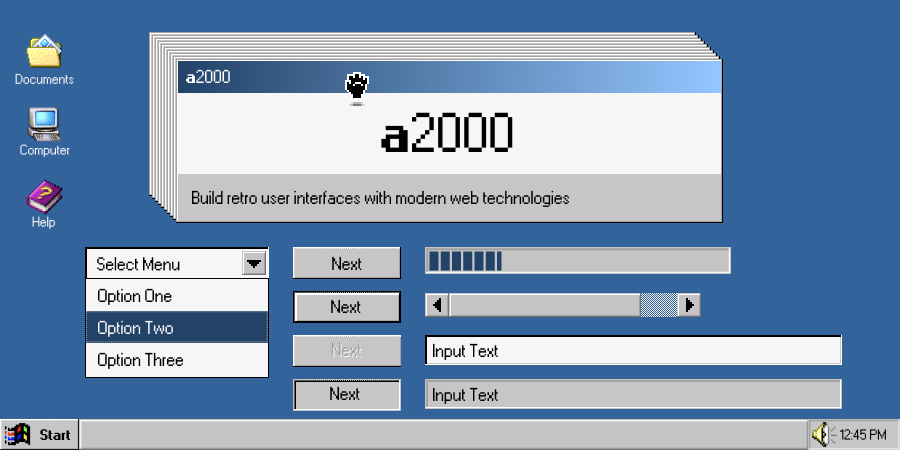
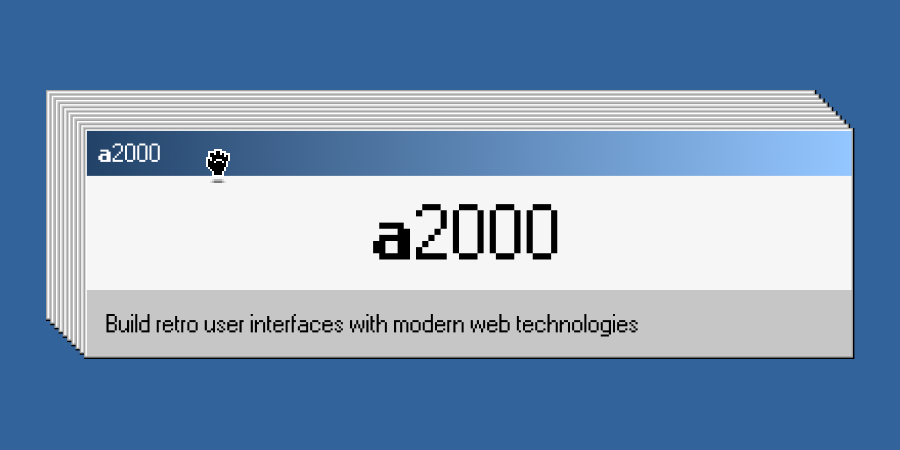
docs(docs): finish general styles for doc site

diff --git a/docs/index.html b/docs/index.html
@@ -51,18 +51,18 @@
         </nav>
       </a2k-panel>
 
-      <main>
+      <main class="stack stack-spacing-300">
+        <img
+          class="cover-image"
+          src="/images/cover.png"
+          srcset="/images/cover.png 1x, /images/cover@2x.png 2x"
+        />
         <a2k-panel>
           <a2k-window-topbar>a2000</a2k-window-topbar>
           <div class="content stack stack-spacing-300">
             <section>
               <h1 id="title">a2000 (or a2k)</h1>
               <div class="stack stack-spacing-200">
-                <img
-                  class="cover-image"
-                  src="/images/cover.png"
-                  srcset="/images/cover.png 1x, /images/cover@2x.png 2x"
-                />
                 <p>Welcome to a2000 (or a2k for short).</p>
                 <p>
                   a2000 is a UI library design to capture the feel of the early
@@ -130,8 +130,9 @@
                   <h3 id="icons">Icons</h3>
                   <div class="stack stack-spacing-200">
                     <p>
-                      Icons can help a user recognise the meaning quickly. They
-                      can also help improve the visual design of a website.
+                      Icons can help a user recognise the meaning of an
+                      action/feature quickly. They can also help improve the
+                      visual design of a website.
                     </p>
 
                     <div class="icons">
@@ -142,10 +143,24 @@
                       <a2k-icon icon="info-icon"></a2k-icon>
                     </div>
 
+                    <p>
+                      You can combine icons with buttons and text to improve the
+                      visual association with an action. This also increases the
+                      click area, which is great people using touch devices.
+                    </p>
+
                     <div class="desktop-icons">
                       <a2k-desktop-icon
-                        icon="network-icon"
-                        text="network"
+                        icon="help-icon"
+                        text="help"
+                      ></a2k-desktop-icon>
+                      <a2k-desktop-icon
+                        icon="internet-icon"
+                        text="internet"
+                      ></a2k-desktop-icon>
+                      <a2k-desktop-icon
+                        icon="info-icon"
+                        text="info"
                       ></a2k-desktop-icon>
                     </div>
 
@@ -167,7 +182,8 @@
                       page. They are also used to increase the retro feel of
                       your site by 1000%.
                     </p>
-                    <a2k-marquee
+
+                    <a2k-marquee class="input-wrapper"
                       ><p slot="text">This is a marquee</p></a2k-marquee
                     >
                     <div>
@@ -189,7 +205,7 @@
                       Window both build from the Panel.
                     </p>
 
-                    <a2k-panel>
+                    <a2k-panel class="input-wrapper">
                       <p style="padding-left: 8px">
                         Use me to give things that Windows 2000 vibe
                       </p>
@@ -208,7 +224,10 @@
                       for a given task.
                     </p>
 
-                    <a2k-progress progress="69"></a2k-progress>
+                    <a2k-progress
+                      class="input-wrapper"
+                      progress="69"
+                    ></a2k-progress>
                     <div>
                       <a
                         href="https://a2000-storybook.netlify.app/?path=/story/panel--default"
@@ -227,6 +246,7 @@
                       value from a manu of many choices.
                     </p>
                     <a2k-select
+                      class="input-wrapper"
                       placeholder="e.g. Windows XP"
                       label="Which is your favourite Windows OS?"
                     >
@@ -254,7 +274,7 @@
                       expand and minimise windows, and more.
                     </p>
 
-                    <a2k-taskbar></a2k-taskbar>
+                    <a2k-taskbar class="input-wrapper"></a2k-taskbar>
                     <div>
                       <a
                         href="https://a2000-storybook.netlify.app/?path=/story/taskbar--default"
@@ -272,6 +292,7 @@
                       Text fields are used to take information from your users.
                     </p>
                     <a2k-text-field
+                      class="input-wrapper"
                       label="What's your favourite component?"
                       placeholder="e.g. Select menus are rad"
                     ></a2k-text-field>
@@ -289,7 +310,10 @@
                   <h3 id="window">Window</h3>
 
                   <div class="stack stack-spacing-200">
-                    <div style="position: relative; height: 160px">
+                    <div
+                      style="position: relative; height: 160px"
+                      class="input-wrapper"
+                    >
                       <a2k-window draggable closeable>
                         <p>
                           The Window component can be used to add floating

diff --git a/docs/public/styles/styles.css b/docs/public/styles/styles.css
@@ -18,7 +18,6 @@ body {
 main {
   max-width: 900px;
   margin: 0 auto;
-  background: white;
 }
 
 main > a2k-panel {
@@ -60,9 +59,8 @@ summary > .icon {
   font-size: 8px;
 }
 
-.cover-image {
-  width: calc(100% + var(--content-padding) * 2);
-  margin-left: calc(-1 * var(--content-padding));
+a2k-panel > p {
+  margin-block: 16px;
 }
 
 .stack-spacing-100 > * {
@@ -109,4 +107,23 @@ summary > .icon {
 
 .links {
   padding-inline: 8px;
+}
+
+.icons {
+  font-size: 1.5rem;
+  gap: 16px;
+  display: flex;
+  flex-wrap: wrap;
+}
+
+.desktop-icons {
+  --desktop-icon-text-color: var(--color-black);
+  --desktop-icon-text-color-focus: var(--color-white);
+
+  display: flex;
+  flex-wrap: wrap;
+}
+
+.input-wrapper {
+  max-width: 320px;
 }

diff --git a/packages/styles/a2k-styles.css b/packages/styles/a2k-styles.css
@@ -123,6 +123,7 @@ Variable names should follow the format
   --desktop-icon-flex-gap: var(--spacing-100);
   --desktop-icon-text-size: var(--font-size-200);
   --desktop-icon-text-color: var(--color-white);
+  --desktop-icon-text-color-focus: var(--color-white);
   --desktop-icon-text-padding: var(--spacing-50);
   --desktop-icon-text-outline-focus: 1px dotted var(--color-white);
   --desktop-icon-text-background-color-focus: var(--color-blue-100);

diff --git a/packages/desktop/src/A2kDesktopIcon.ts b/packages/desktop/src/A2kDesktopIcon.ts
@@ -34,6 +34,7 @@ export class A2kDesktopIcon extends LitElement {
     #icon-wrapper:focus p {
       outline: var(--desktop-icon-text-outline-focus);
       background: var(--desktop-icon-text-background-color-focus);
+      color: var(--desktop-icon-text-color-focus);
     }
   `;
 

diff --git a/docs/public/styles/reset.css b/docs/public/styles/reset.css
@@ -33,6 +33,7 @@ body {
 /*
   6. Improve media defaults
 */
+img,
 picture,
 video,
 canvas,
